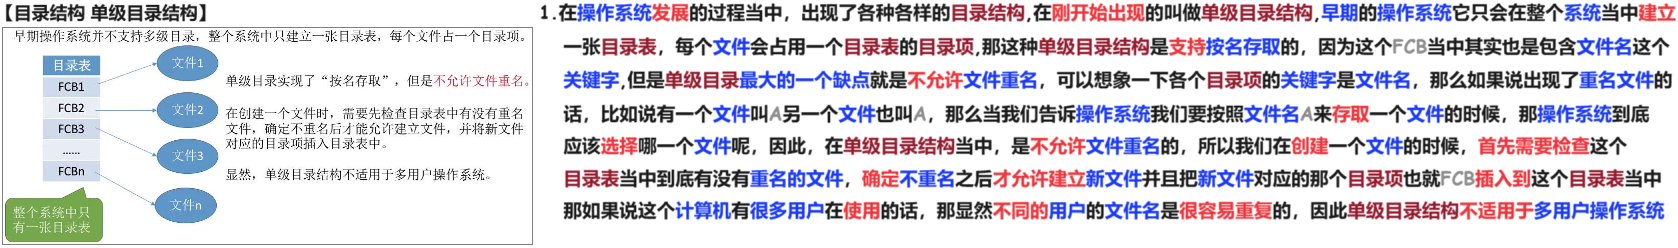
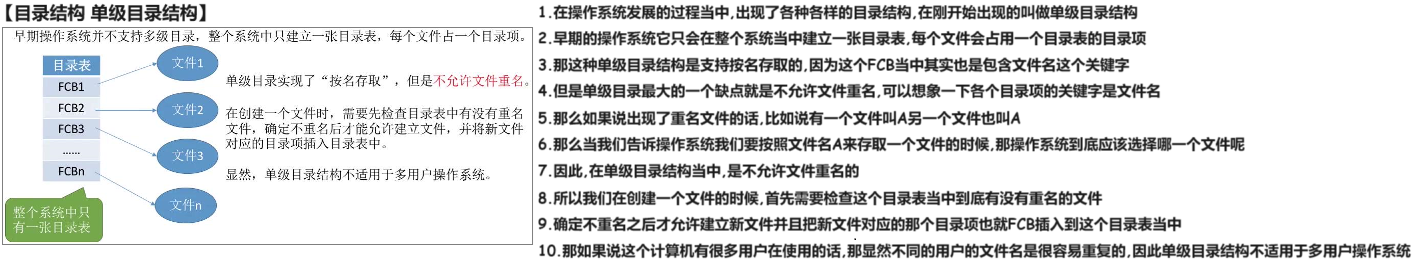
240719

diff --git a/01 初试/01 OS/02 24 25 王道/01 基础/04 文件管理/03 文件 目录 240719/01 消化/02 Doc.md b/01 初试/01 OS/02 24 25 王道/01 基础/04 文件管理/03 文件 目录 240719/01 消化/02 Doc.md
@@ -16,13 +16,13 @@
 
 # 03 目录结构 单级目录结构
 
-<img src="https://cvp.oss-cn-shanghai.aliyuncs.com/picgo/202405211248329.png" alt="image-20240521124844212" style="zoom:50%;" />
+<img src="https://cvp.oss-cn-shanghai.aliyuncs.com/picgo/202407191612003.png" alt="image-20240719161231713" style="zoom:50%;" />
 
 
 
 # 04 目录结构 两级目录结构
 
-<img src="https://cvp.oss-cn-shanghai.aliyuncs.com/picgo/202405211542383.png" alt="image-20240521154208236" style="zoom: 50%;" />
+<img src="https://cvp.oss-cn-shanghai.aliyuncs.com/picgo/202407191614714.png" alt="image-20240719161442494" style="zoom:50%;" />
 
 
 
